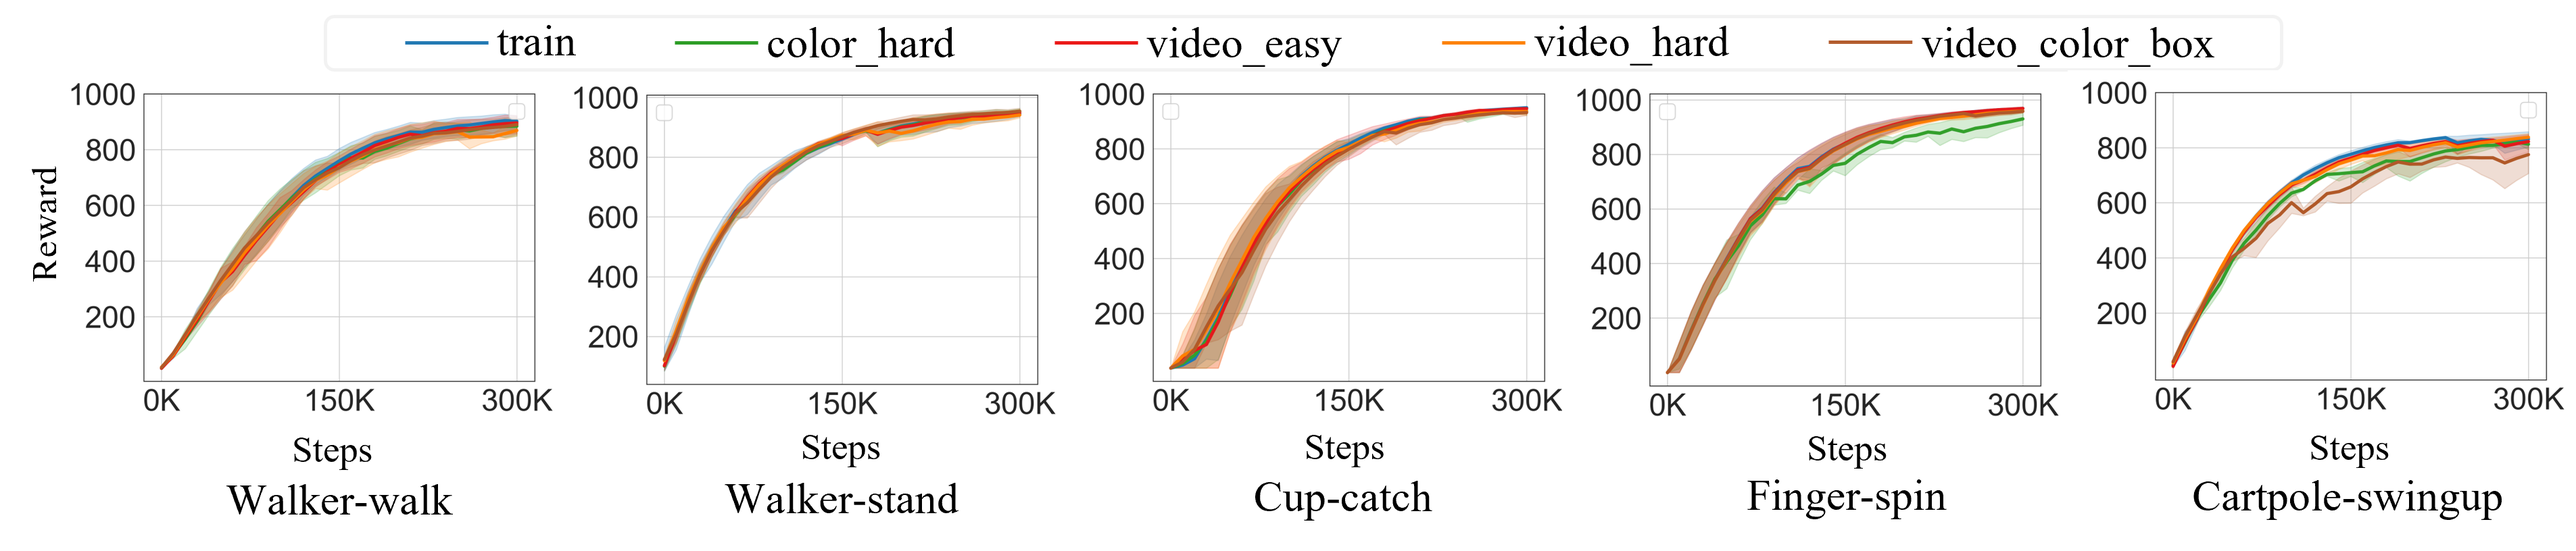
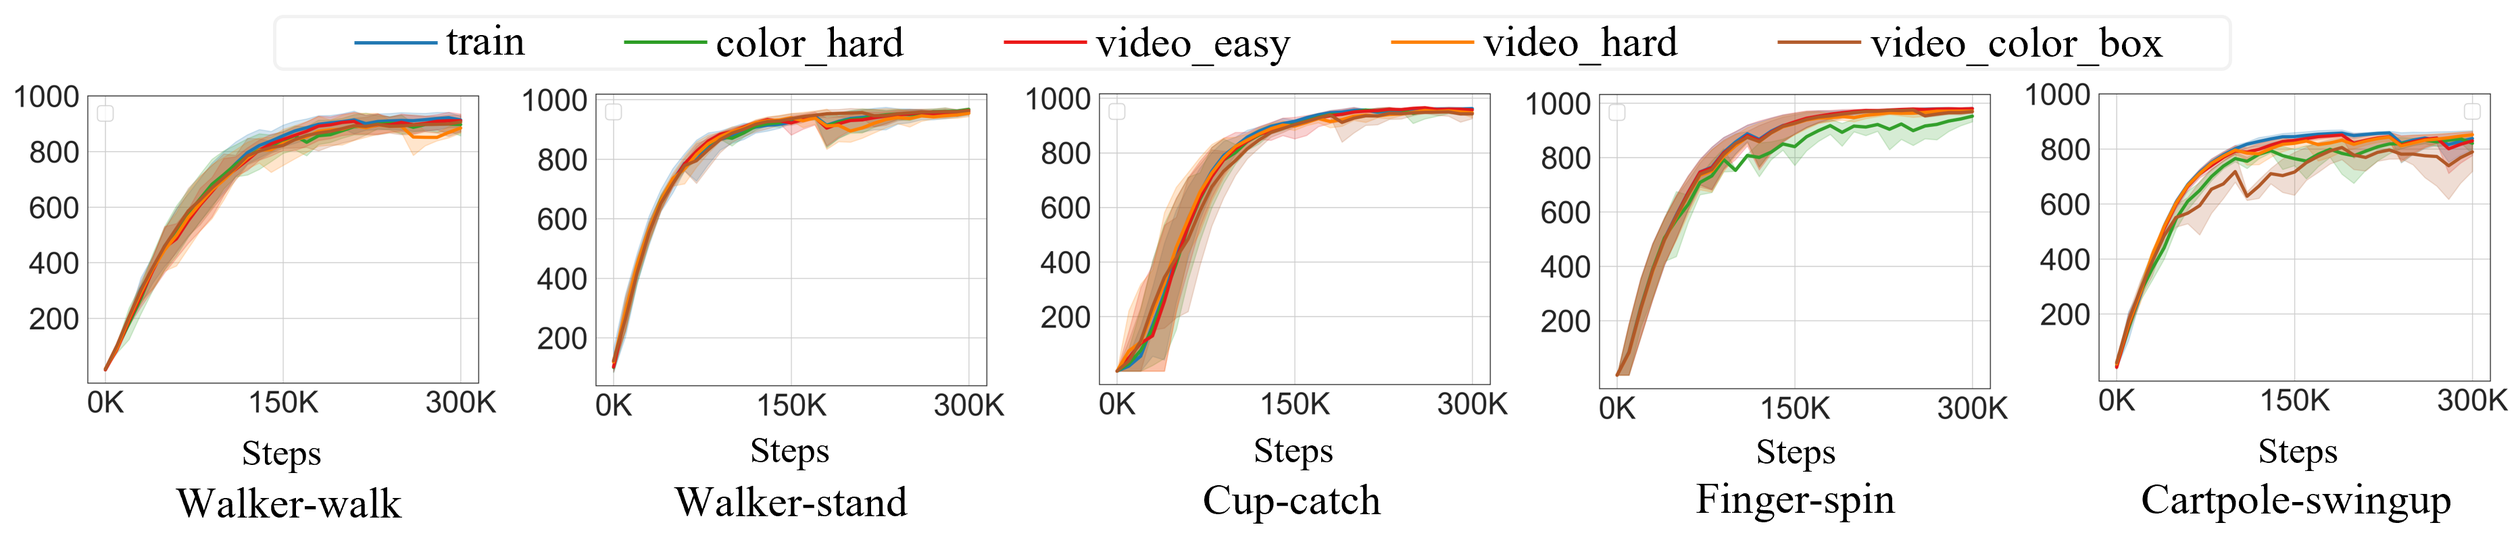
xiu5

diff --git a/index.html b/index.html
@@ -309,7 +309,7 @@ and uses the memory classifier to retain only task-relevant parts, effectively e
         <div class="font-semibold">Walker Stand</div>
       </div>
 
-      <!-- Column 3: Cheetah Run -->
+      <!-- Column 3: Cup catch -->
       <div class="flex flex-col items-center gap-y-2">
         <figure><img src="static/images/cc_hard.png" class="rounded w-[200px]" alt="Cheetah Cheetah"></figure>
         <figure><img src="static/images/cc_hard_mask.png" class="rounded w-[200px]" alt="Cheetah Cheetah Mask"></figure>
